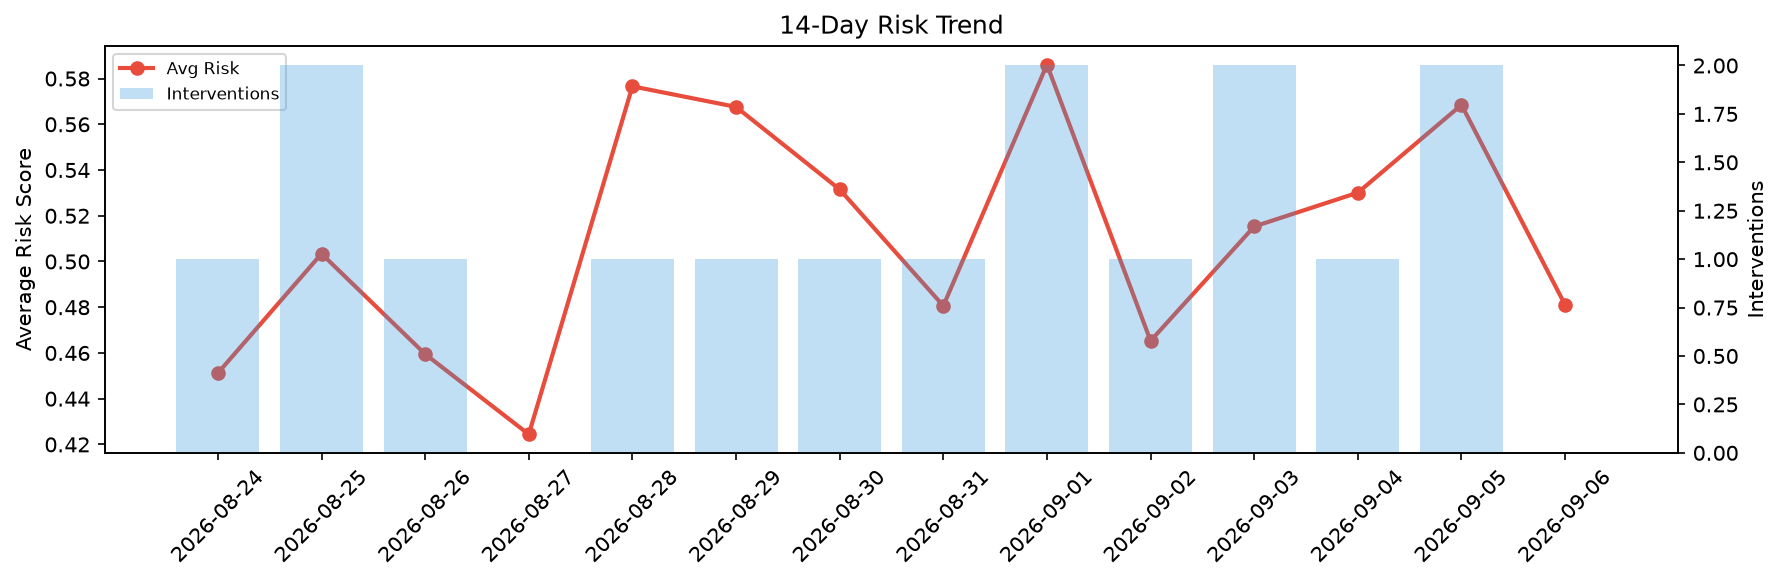
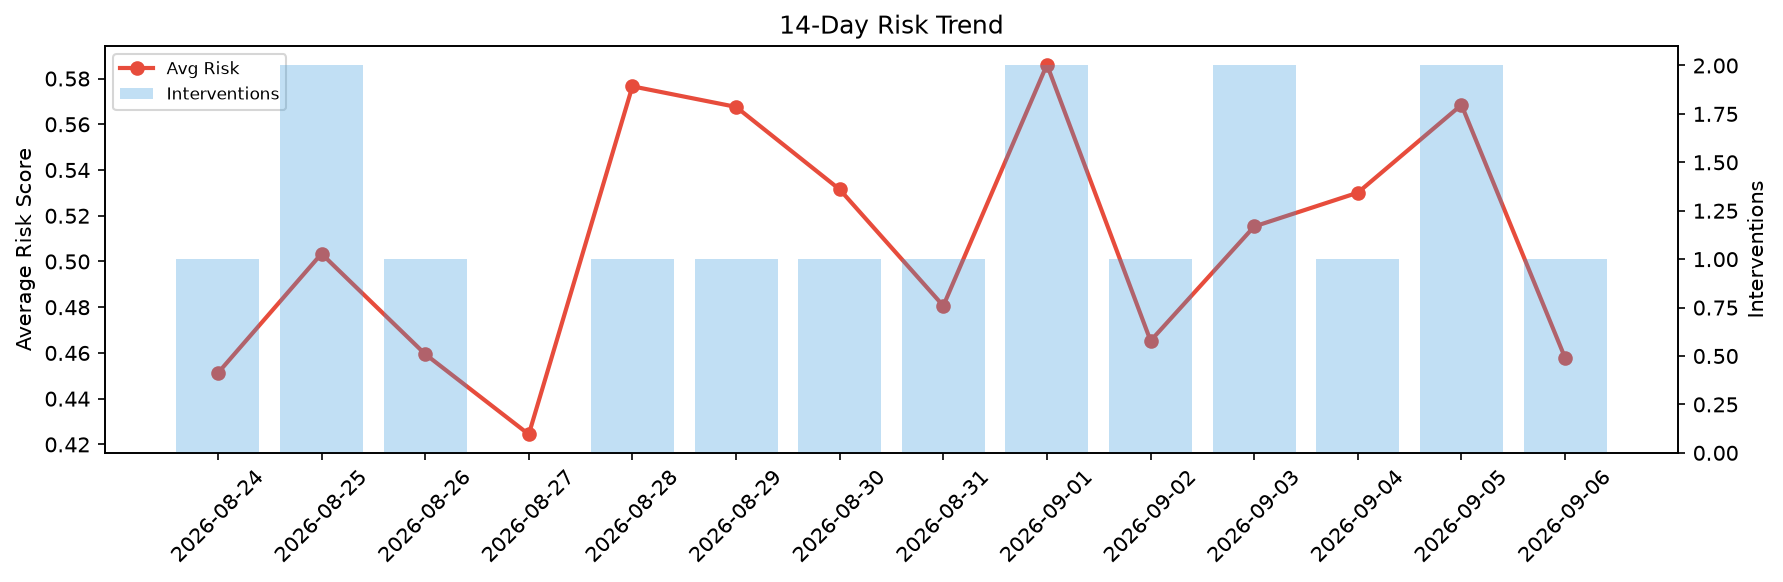
agent-improvement: daily cycle 2026-09-06T22:06

Changed region(s): [[0.8329, 0.2784, 0.9254, 0.8041], [0.802, 0.2165, 0.8329, 0.2784]]

diff --git a/logs/2026-09-06.md b/logs/2026-09-06.md
@@ -1,6 +1,6 @@
 # Agent Improvement Report — 2026-09-06
 
-**Cycle ID:** `ac1e60f0` | **Avg Risk:** 0.481 | **Interventions:** 0/4
+**Cycle ID:** `6d82ca9e` | **Avg Risk:** 0.4578 | **Interventions:** 1/4
 
 ![Dashboard](2026-09-06_dashboard.png)
 
@@ -10,18 +10,18 @@
 
 | Domain | Risk Score | Decision | Alerts |
 |--------|-----------|----------|--------|
-| code_review | 0.5396 | monitor | duplication |
-| incident_response | 0.5638 | monitor | blast_radius |
-| data_pipeline | 0.3042 | monitor | schema_drift |
-| deployment | 0.5166 | monitor | latency_p99 |
+| code_review | 0.2512 | monitor | none |
+| incident_response | 0.4725 | monitor | none |
+| data_pipeline | 0.4722 | monitor | none |
+| deployment | 0.6355 | intervene | latency_p99 |
 
 ## Delta vs Yesterday
 
 | Domain | Today | Yesterday | Change |
 |--------|-------|-----------|--------|
-| code_review | 0.5396 | 0.4507 | 📈 19.7% |
-| incident_response | 0.5638 | 0.8134 | 📉 -30.7% |
-| data_pipeline | 0.3042 | 0.3143 | 📉 -3.2% |
-| deployment | 0.5166 | 0.6954 | 📉 -25.7% |
+| code_review | 0.2512 | 0.4507 | 📉 -44.3% |
+| incident_response | 0.4725 | 0.8134 | 📉 -41.9% |
+| data_pipeline | 0.4722 | 0.3143 | 📈 50.2% |
+| deployment | 0.6355 | 0.6954 | 📉 -8.6% |
 
-**Refinement:** `{'adjustment': 'maintain', 'trend': 'improving', 'window': 4}`
+**Refinement:** `{'adjustment': 'tighten_thresholds', 'trend': 'degrading', 'window': 4}`
